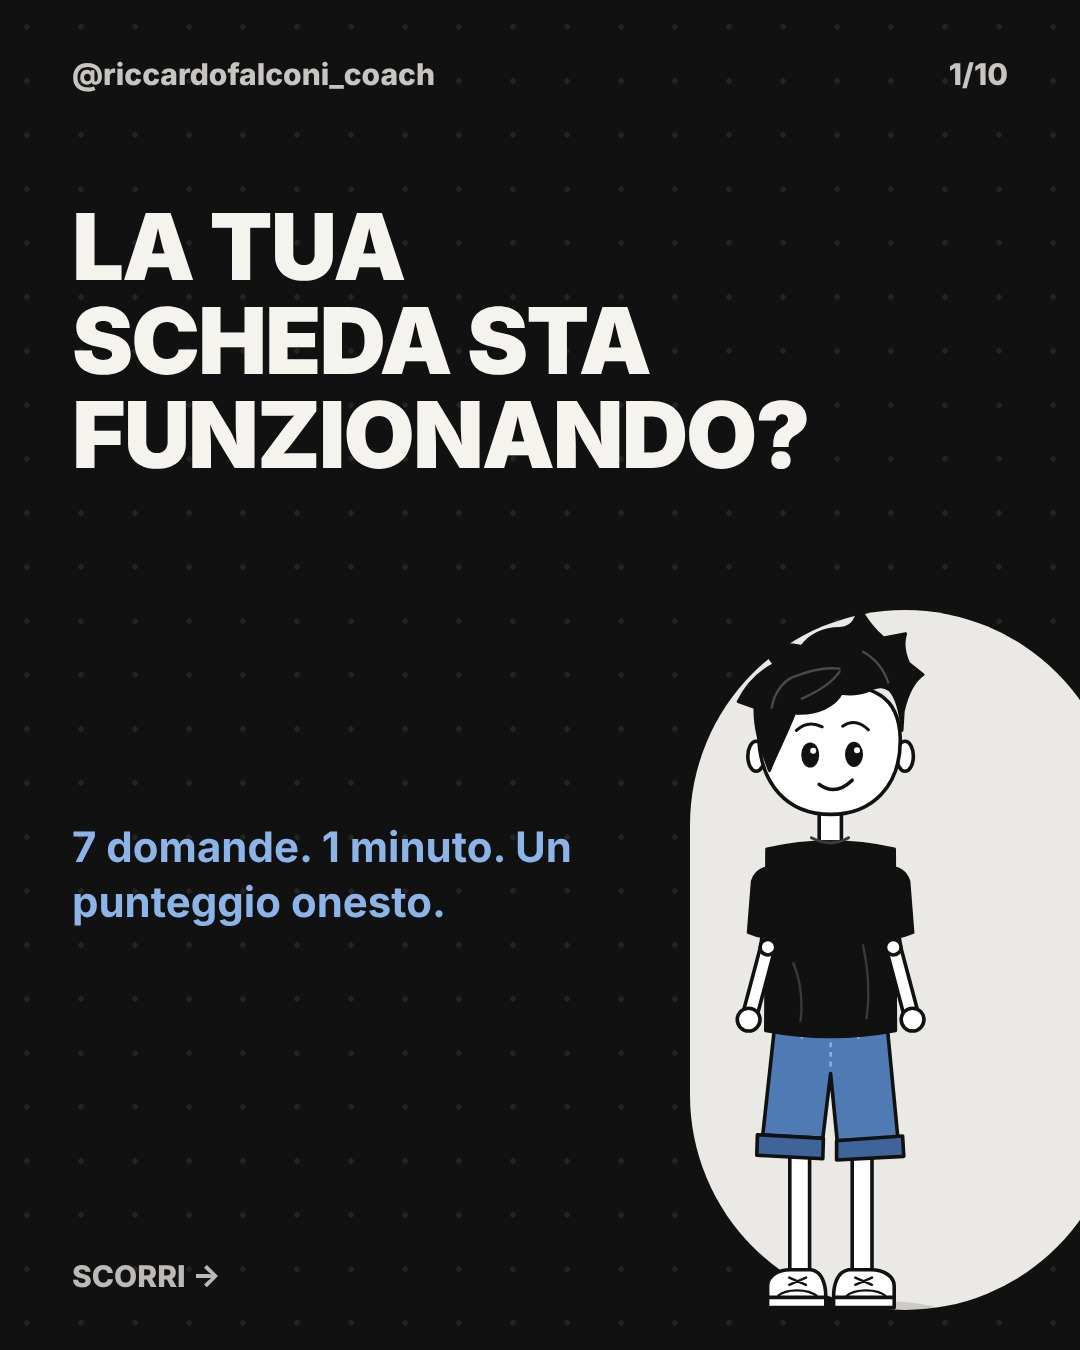
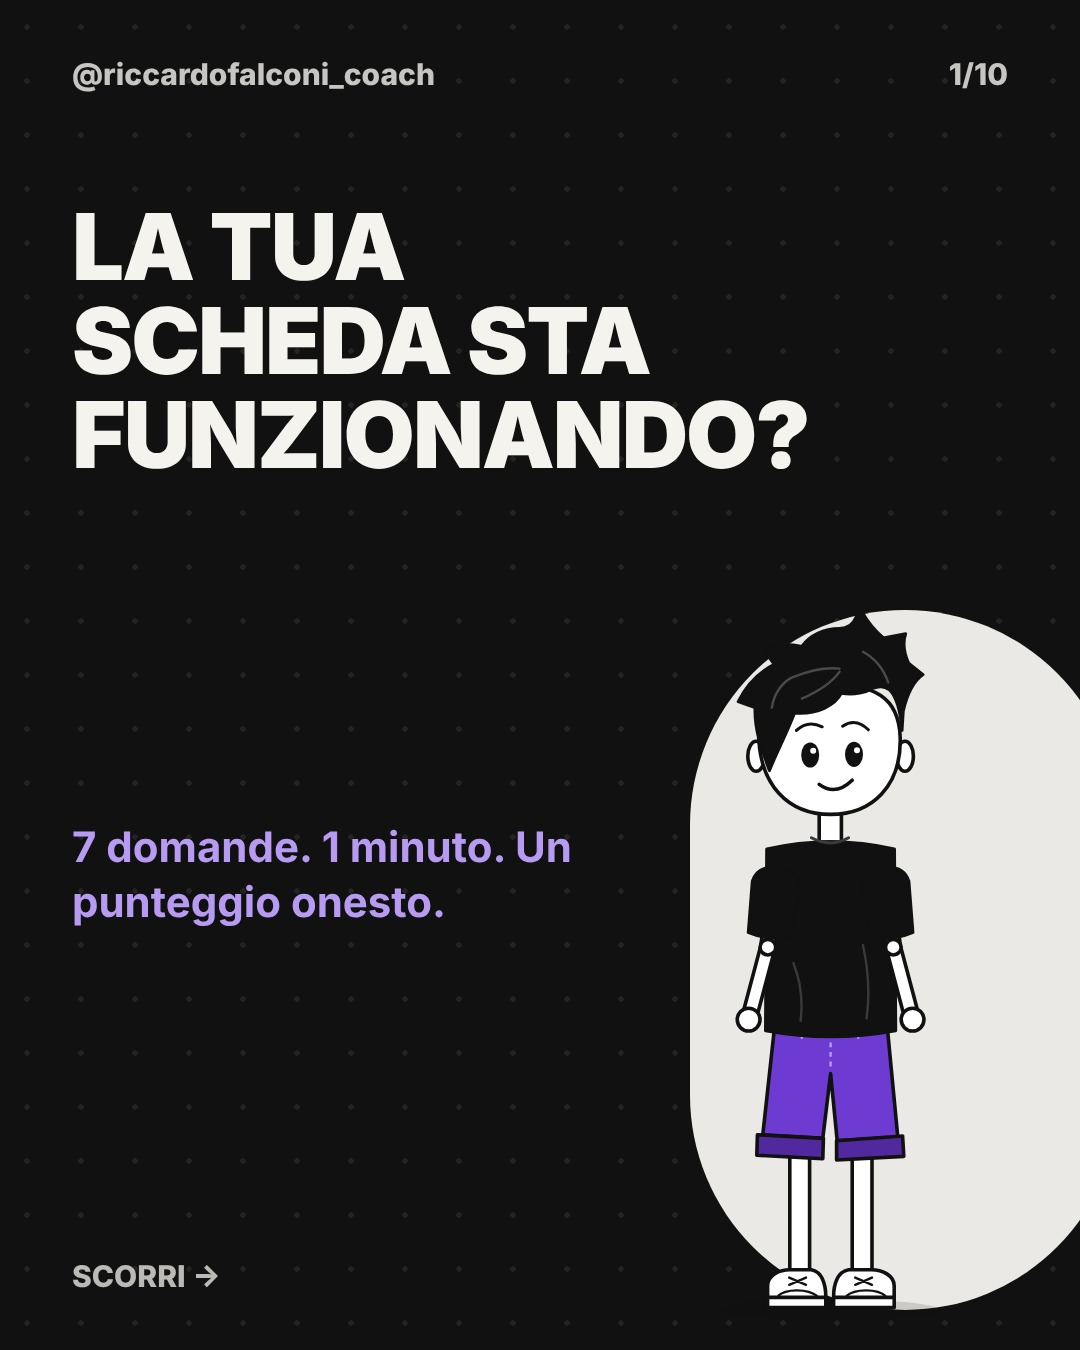
Carousels: brand palette violet/white/black
Claude-Session: https://claude.ai/code/session_01M7NmpGDtUMj9psXe8owmCn

Changed region(s): [[0.0611, 0.6222, 0.5194, 0.6844], [0.7028, 0.7467, 0.8556, 0.8711]]

diff --git a/video/src/Riky.tsx b/video/src/Riky.tsx
@@ -136,11 +136,11 @@ export const Riky: React.FC<RikyProps> = ({
       </g>
       {/* pantaloncini */}
       <g stroke={C.ink} strokeWidth={OUT} strokeLinejoin="round">
-        <path d="M316 838 L505 838 L522 1016 L421 1022 L410 910 L397 1018 L297 1012 Z" fill={C.blue} />
-        <path d="M288 1012 L398 1018 L397 1052 L287 1046 Z" fill={C.blueD} />
-        <path d="M420 1022 L530 1014 L532 1048 L420 1054 Z" fill={C.blueD} />
-        <path d="M410 842 L410 906" stroke={C.blueL} strokeWidth={4} strokeDasharray="8 8" fill="none" />
-        <path d="M362 846 l0 6 M456 846 l0 6" stroke={C.blueL} strokeWidth={4} fill="none" />
+        <path d="M316 838 L505 838 L522 1016 L421 1022 L410 910 L397 1018 L297 1012 Z" fill={C.denim} />
+        <path d="M288 1012 L398 1018 L397 1052 L287 1046 Z" fill={C.denimD} />
+        <path d="M420 1022 L530 1014 L532 1048 L420 1054 Z" fill={C.denimD} />
+        <path d="M410 842 L410 906" stroke={C.denimL} strokeWidth={4} strokeDasharray="8 8" fill="none" />
+        <path d="M362 846 l0 6 M456 846 l0 6" stroke={C.denimL} strokeWidth={4} fill="none" />
       </g>
       {/* collo + torso */}
       <rect x={391} y={470} width={37} height={54} fill="#fff" stroke={C.ink} strokeWidth={OUT} />

diff --git a/video/src/brand.ts b/video/src/brand.ts
@@ -6,9 +6,13 @@ export const C = {
   ink: '#111111',
   cream: '#F5F3EE',
   paper: '#FFFFFF',
-  blue: '#4F7AB3',
-  blueD: '#3F6499',
-  blueL: '#8DB4E8',
+  // viola di brand (il nome 'blue*' resta per non toccare i componenti esistenti)
+  blue: '#6D3BD2',
+  blueD: '#52289F',
+  blueL: '#B79BF2',
+  denim: '#6D3BD2',
+  denimD: '#52289F',
+  denimL: '#B79BF2',
   red: '#E5484D',
   grey: '#DCDAD3',
   steel: '#C9CED6',

diff --git a/video/src/carousel/Slides.tsx b/video/src/carousel/Slides.tsx
@@ -62,7 +62,7 @@ export const CarouselSlide: React.FC<{deck: string; index: number}> = ({deck, in
   const s = slides[index];
   const total = slides.length;
   const dark = s.kind === 'cover' || s.kind === 'cta';
-  const bg = dark ? C.ink : C.cream;
+  const bg = dark ? C.ink : '#FFFFFF';
   const fg = dark ? C.cream : C.ink;
   const rk = s.riky ?? {};
   const big = s.kind === 'cover' || s.kind === 'cta';
